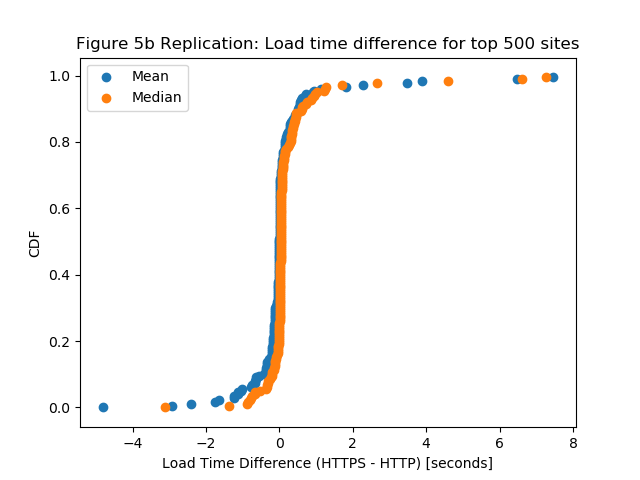
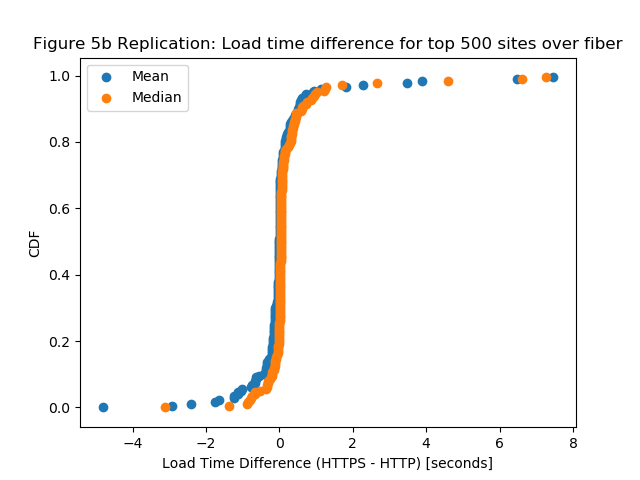
New Plots for fiber tests.

Changed region(s): [[0.0312, 0.0625, 0.9688, 0.125]]

diff --git a/scratch-impl/createPlot.py b/scratch-impl/createPlot.py
@@ -31,7 +31,7 @@ def plot_data(fraction_data, absolute_data):
 
     plt.xlabel('Load Time Ratio (HTTPS/HTTP)')
     plt.ylabel('CDF')
-    plt.title('Figure 5a Replication: Load time ratio for top 500 sites')
+    plt.title('Figure 5a Replication: Load time ratio for top 500 sites over fiber')
     plt.legend()
     plt.savefig('scratch-ratio.png')
 
@@ -48,7 +48,7 @@ def plot_data(fraction_data, absolute_data):
 
     plt.xlabel('Load Time Difference (HTTPS - HTTP) [seconds]')
     plt.ylabel('CDF')
-    plt.title('Figure 5b Replication: Load time difference for top 500 sites')
+    plt.title('Figure 5b Replication: Load time difference for top 500 sites over fiber')
     plt.legend()
     plt.savefig('scratch-difference.png')
 

diff --git a/README.md b/README.md
@@ -2,14 +2,14 @@
 ## The cost of the S in HTTPS
 A reproduction of select results of a 2014 paper
 
-# Instructions
-Compatible with 64-bit Linux. We recommend running this inside of a Virtual
-Machine.
+# Easy Instructions
+Compatible with 64-bit Linux. We recommend running this inside of the CS244 VM.
 ## 1. Setup Testing Environment
 `./setup`  
 
 ## 2. Run the tests
-`./run_tests` (currently only tests that it can reach google.com)
+Warning: This will take several hours!
+`./run_tests` 
 
 After completion, plots should be available in root directory as `ratio.png`
 and  `difference.png`.
